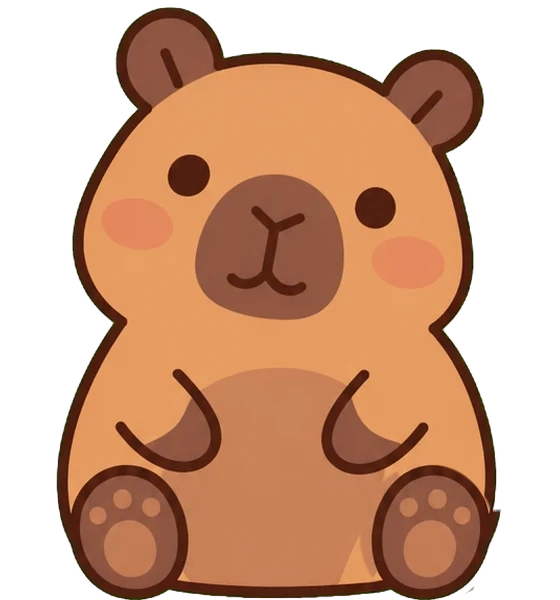
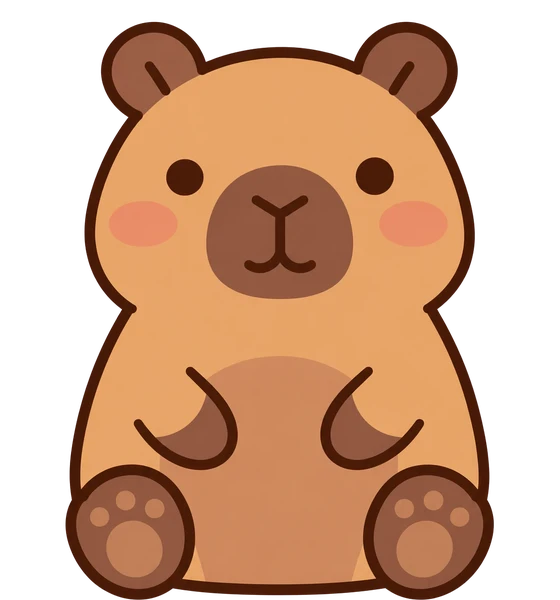
feat: 걱정상자의 처음 카피바라를 두 발이 다 정면인 그림으로 바꾼다
몸에 힘 빼기의 기본 포즈를 빌려 오른발을 뒤집어 덮어 쓰던 것을 따로 받은 그림으로
갈아 끼운다. 흰 바탕이라 keyout_white 로 걷어 내고, 머리 폭(780 → 390)에 맞춰 줄여
다른 포즈와 같은 560 × 600 상자에 발밑 · 두 발 가운데로 맞췄다.

diff --git a/src/components/rest/worry/WorryBoxScene.tsx b/src/components/rest/worry/WorryBoxScene.tsx
@@ -55,7 +55,7 @@ import { RisingMotes } from "../scene/RisingMotes";
  * 오지 않는다(`SurfaceRipple` 과 같은 판단).
  *
  * 그림은 ChatGPT 로 생성해 `scripts/keyout-worry-box.py` 로 다듬은 것이다(숲 · 앉은 포즈 ·
- * 상자를 인 뒷모습 둘 · 상자 셋 — 처음 자세만 몸에 힘 빼기 것을 빌린다). 그림이 바뀌면
+ * 상자를 인 뒷모습 둘 · 상자 셋 — 처음 자세만 따로 받은 흰 바탕 그림이다). 그림이 바뀌면
  * `ART` 표만 갈아 끼운다.
  *
  * 장식이라 낭독기에 읽히지 않는다 — 할 일은 위 안내와 아래 판이 말한다.

diff --git a/scripts/keyout-worry-box.py b/scripts/keyout-worry-box.py
@@ -1,7 +1,7 @@
-"""걱정상자의 생성 그림 네 장을 앱 자산으로 만든다 (2026-10-05).
+"""걱정상자의 그림 다섯 장을 앱 자산으로 만든다 (2026-10-05).
 
-`assets/worry-box/source/`(이력에 담지 않는다)의 네 장을 읽는다 — 전부 ChatGPT 로
-생성했고, 배경을 뺀 셋은 순수 초록(#00FF00) 위에 그렸다. 걷어 내는 법은 몸에 힘 빼기와
+`assets/worry-box/source/`(이력에 담지 않는다)의 다섯 장을 읽는다 — `sit.webp` 말고는
+ChatGPT 로 생성했고, 배경을 뺀 셋은 순수 초록(#00FF00) 위에 그렸다. 걷어 내는 법은 몸에 힘 빼기와
 같다(`keyout-body-release.py` 머리말 — 초록 세기로 알파를 내고, 섞인 가장자리는 배경색을
 빼서 되살리고, 남은 초록은 누른다).
 
@@ -11,17 +11,12 @@
 | `poses.webp`  | 2×2 — (받기) · 쪽지 들기 · 넣기 · 곁에서 쉬기 | `capybara-{hold,put,rest}.webp` — 받기는 쓰지 않는다 |
 | `walk.webp`   | 상자를 인 뒷모습 두 걸음                 | `capybara-walk{1,2}.webp`                   |
 | `box.webp`    | 열린 상자 뒤판 · 앞판 · 닫힌 상자        | `box-{back,front,closed}.webp`              |
-| (몸에 힘 빼기) `poses-a.webp` 왼쪽 위 | 두 손을 배에 얹은 기본 앉은 자세 | `capybara-sit.webp`             |
+| `sit.webp`    | 두 손을 배에 얹은 기본 앉은 자세(흰 바탕) | `capybara-sit.webp`                         |
 
-⚠ **처음 자세는 몸에 힘 빼기의 기본 포즈를 빌린다** (2026-10-05 · 실기기 피드백). 생성한
-「받기」(두 손을 내민) 포즈가 어색했다. 같은 캐릭터라 이어지지만 머리 폭이 4.5% 작게
-그려져 있어서(374 : 391) 그만큼 키워 맞춘다(`SIT_SCALE`). 원본은
-`assets/body-release/source/` 에 있다.
-
-⚠ **그 자세의 오른발은 고쳐 쓴다** (2026-10-05 · 사용자 피드백). 원본은 왼발만 동그란
-발바닥이 보이는 정면이고 오른발은 옆모습 발끝처럼 삐죽 튀어나와 있었다. 왼발을 좌우로
-뒤집어 오른발 자리에 **발 모양(타원)대로만** 덮고, 그래도 남는 옛 발끝은 그 아래만 덮는다
-(`mirror_right_foot`). 사각형으로 섞으면 발 윗선이 잘리거나 팔 선이 겹쳐 흐려졌다.
+⚠ **처음 자세는 따로 받은 그림이다** (2026-10-07 · 사용자 제공). 처음에는 몸에 힘 빼기의
+기본 포즈를 빌려 오른발을 왼발을 뒤집어 덮어 썼는데, 두 발이 다 정면인 그림으로 바꿨다.
+이 그림만 **흰 바탕**이라 초록 대신 흰색을 걷어 낸다(`keyout_white`). 같은 캐릭터라
+이어지고, 머리 폭이 다른 포즈(390)의 두 배로 그려져 있어서 절반으로 줄인다(`SIT_SCALE`).
 
 ## 같은 상자에 맞춘다
 
@@ -38,7 +33,7 @@
 from pathlib import Path
 
 import numpy as np
-from PIL import Image
+from PIL import Image, ImageDraw, ImageFilter
 
 ROOT = Path(__file__).resolve().parent.parent / "assets" / "worry-box"
 SRC = ROOT / "source"
@@ -50,8 +45,10 @@ KEEP, DROP = 60, 200
 SIT_BOX = (560, 600)
 WALK_BOX = (560, 830)
 CHEST_BOX = (420, 410)
-# 몸에 힘 빼기 기본 포즈를 걱정상자 포즈 크기로 맞추는 배율 — 머리 폭 391 ÷ 374
-SIT_SCALE = 391 / 374
+# 처음 자세 그림을 다른 포즈 크기로 맞추는 배율 — 머리 폭 390 ÷ 780
+SIT_SCALE = 390 / 780
+# 흰 바탕 걷어 내기 — 이보다 밝으면 바탕 후보, 외곽선(진한 갈색)에 닿는 띠의 폭(px)
+WHITE_MIN, EDGE_BAND = 240, 7
 # 발의 가운데를 잴 때 보는 아래쪽 줄 수
 FEET_ROWS = 80
 
@@ -87,20 +84,25 @@ def place(piece: np.ndarray, size: tuple[int, int], center_on_feet: bool) -> np.
     return box
 
 
-def mirror_right_foot(box: np.ndarray) -> np.ndarray:
-    """왼발을 뒤집어 오른발 자리에 덮는다 — 상자는 두 발의 가운데가 가운데라 그대로 뒤집으면 된다"""
-    h, w = box.shape[:2]
-    img = box.astype(np.float32)
-    mirrored = img[:, ::-1]
-    yy, xx = np.mgrid[0:h, 0:w]
-    # 왼발(그림에서 잰 가운데 132, 535)을 뒤집은 자리 — 외곽선까지 덮도록 조금 넉넉하다
-    cx, cy, rx, ry = (w - 1) - 132, 535, 66, 70
-    d = np.sqrt(((xx - cx) / rx) ** 2 + ((yy - cy) / ry) ** 2)
-    foot = np.clip((1.0 - d) / 0.05 + 1, 0, 1)
-    # 타원 밖으로 남는 옛 발끝 — 오른쪽 아래만
-    tip = np.clip((xx - 470) / 4, 0, 1) * np.clip((yy - 508) / 4, 0, 1)
-    weight = np.maximum(foot, tip)[..., None]
-    return np.clip(img * (1 - weight) + mirrored * weight, 0, 255).astype(np.uint8)
+def keyout_white(name: str) -> np.ndarray:
+    """흰 바탕을 걷어 낸다 — 가장자리에서 이어진 밝은 곳만 바탕이다(몸 안의 밝은 곳은 남는다).
+    바탕에 닿는 띠는 외곽선과 흰색이 섞인 것이라, 흰색을 빼서 외곽선 색과 알파를 되살린다"""
+    img = Image.open(SRC / f"{name}.webp").convert("RGB")
+    rgb = np.asarray(img).astype(np.float32)
+    light = Image.fromarray(np.where(rgb.min(axis=2) >= WHITE_MIN, 255, 0).astype(np.uint8)).copy()
+    w, h = light.size
+    for corner in ((0, 0), (w - 1, 0), (0, h - 1), (w - 1, h - 1)):
+        if light.getpixel(corner) == 255:
+            ImageDraw.floodfill(light, corner, 128)
+    bg = np.asarray(light) == 128
+    band = np.asarray(Image.fromarray(bg.astype(np.uint8) * 255).filter(ImageFilter.MaxFilter(EDGE_BAND))) > 0
+    band &= ~bg
+    # 띠 안: 밝을수록 투명하다 — 외곽선의 밝기(그림에서 잰 평균 37)까지가 0 → 1
+    a = np.where(bg, 0.0, 1.0)
+    a[band] = np.clip((255 - rgb[band].mean(axis=1)) / (255 - 37), 0, 1)
+    safe = np.maximum(a, 0.05)[..., None]
+    fg = np.where(band[..., None], (rgb - (1 - a)[..., None] * 255) / safe, rgb)
+    return np.dstack([np.clip(fg, 0, 255), a * 255]).astype(np.uint8)
 
 
 def save(arr: np.ndarray, name: str) -> None:
@@ -118,12 +120,9 @@ def main() -> None:
     }.items():
         save(place(poses[y0:y1, x0:x1], SIT_BOX, center_on_feet=True), f"capybara-{name}")
 
-    sit = keyout("poses-a", ROOT.parent / "body-release" / "source")[0:768, 0:512]
-    h, w = sit.shape[:2]
-    sit = np.asarray(
-        Image.fromarray(sit).resize((round(w * SIT_SCALE), round(h * SIT_SCALE)), Image.LANCZOS)
-    )
-    save(mirror_right_foot(place(sit, SIT_BOX, center_on_feet=True)), "capybara-sit")
+    sit = Image.fromarray(keyout_white("sit")).convert("RGBa")
+    sit = sit.resize((round(sit.width * SIT_SCALE), round(sit.height * SIT_SCALE)), Image.LANCZOS)
+    save(place(np.asarray(sit.convert("RGBA")), SIT_BOX, center_on_feet=True), "capybara-sit")
 
     walk = keyout("walk")
     save(place(walk[:, :768], WALK_BOX, center_on_feet=True), "capybara-walk1")

diff --git a/scripts/keyout-body-release.py b/scripts/keyout-body-release.py
@@ -31,8 +31,8 @@
 포즈 시트 A 의 넷(기본 · 주먹 · 어깨 · 얼굴)은 왼발만 동그란 발바닥이 보이는 정면이고
 오른발은 옆모습 발끝처럼 삐죽 튀어나와 있었다(시트 B 셋은 두 발 다 동그랗다). 몸의 가운데
 선(발 위 몸통의 좌우 끝 한가운데)을 축으로 왼발을 뒤집어 오른발 자리에 **발 모양(타원)대로만**
-덮고, 그래도 남는 옛 발끝은 그 아래만 덮는다(`mirror_right_foot`). 걱정상자의 처음 자세도 같은
-그림이라 같은 방식으로 고친다(`keyout-worry-box.py`).
+덮고, 그래도 남는 옛 발끝은 그 아래만 덮는다(`mirror_right_foot`). (걱정상자의 처음 자세도
+이 그림을 빌려 같은 방식으로 고쳤는데, 2026-10-07 에 두 발이 다 정면인 그림으로 바꿨다.)
 
 다시 만들 때: `python3 scripts/keyout-body-release.py` (Pillow · numpy 필요).
 빌드에 끼지 않는다.
